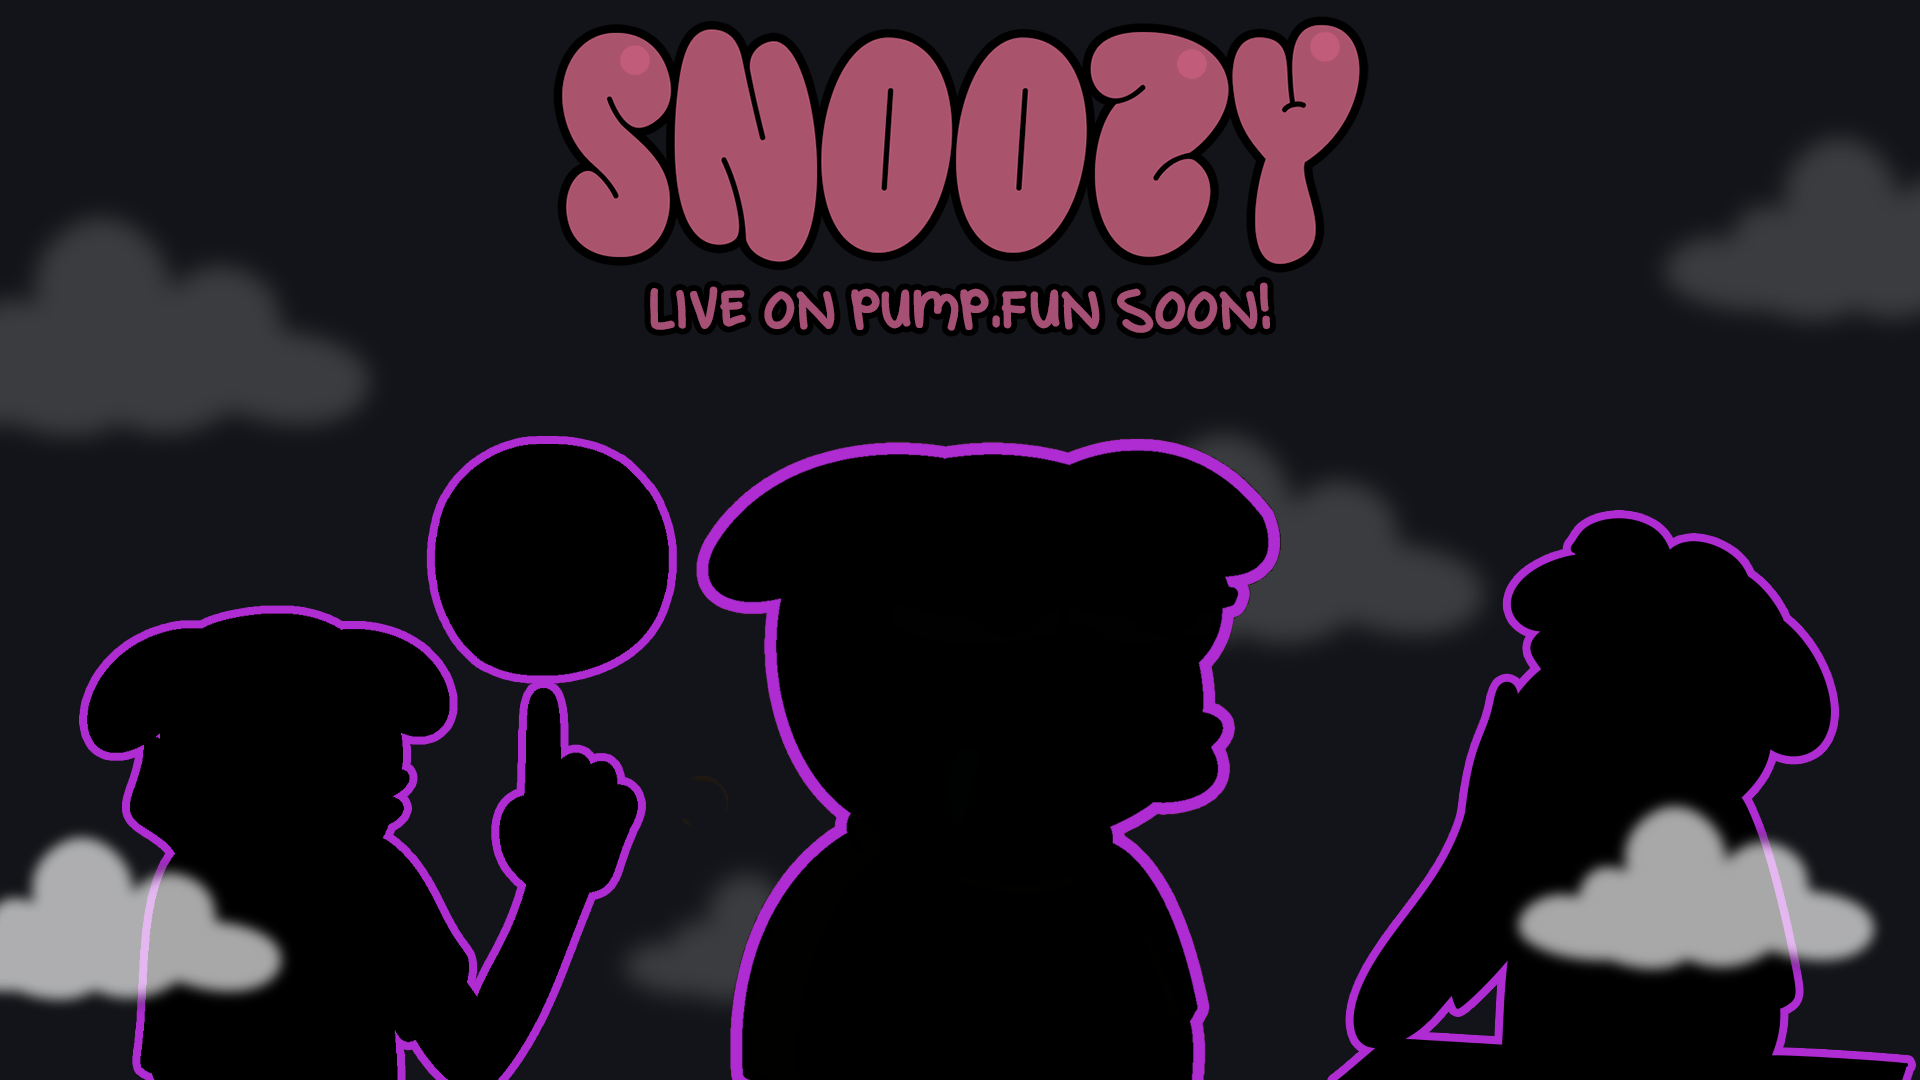
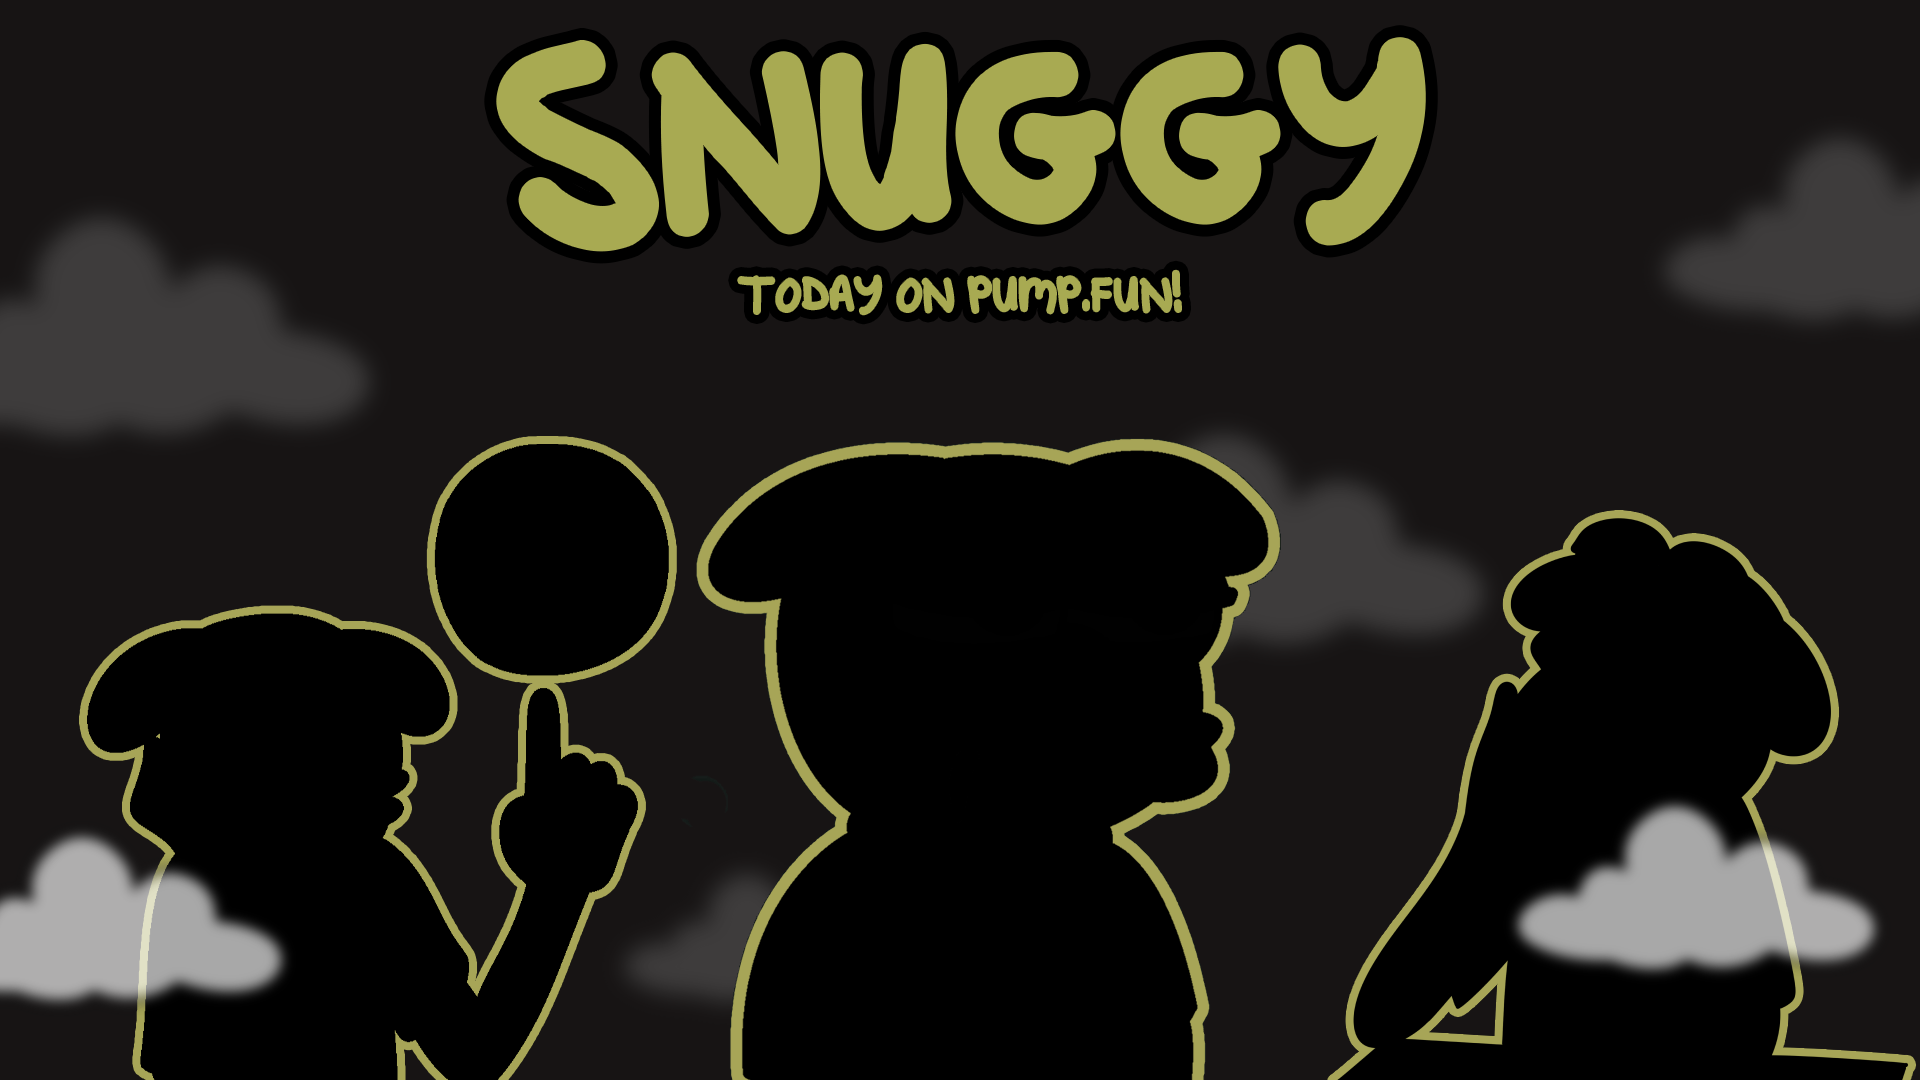
Vdf

diff --git a/src/sections/FloatingImages.jsx b/src/sections/FloatingImages.jsx
@@ -5,14 +5,14 @@ const FloatingImages = () => {
   return (
     <section className="w-full h-screen flex justify-center items-center">
       <div className="flex space-x-8 mt-32">
-        <a href="https://x.com/SolSnoozy" target="_blank" rel="noopener noreferrer">
+        <a href="https://x.com/SnuggySol" target="_blank" rel="noopener noreferrer">
           <img
             src={img1}
             alt="Link to Site 1"
             className="w-[100px] h-auto md:w-[150px] lg:w-[200px] float-animation transition-transform duration-300 transform hover:scale-105"
           />
         </a>
-        <a href="https://t.me/SNOOZY2MILLIONS" target="_blank" rel="noopener noreferrer">
+        <a href="https://t.me/SNUGGYTOMILLIONZ" target="_blank" rel="noopener noreferrer">
           <img
             src={cardImage1}
             alt="Link to Site 2"

diff --git a/index.html b/index.html
@@ -10,7 +10,7 @@
     <link rel="preconnect" href="https://fonts.googleapis.com">
     <link rel="preconnect" href="https://fonts.gstatic.com" crossorigin>
     <link href="https://fonts.googleapis.com/css2?family=Comic+Neue:ital,wght@0,300;0,400;0,700;1,300;1,400;1,700&display=swap" rel="stylesheet">
-    <title>SNOOZY </title>
+    <title>SNUGGY </title>
   </head>
   <body>
     <div id="root"></div>
